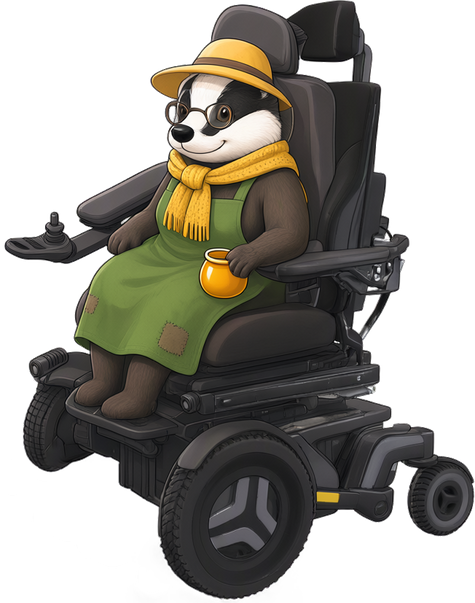
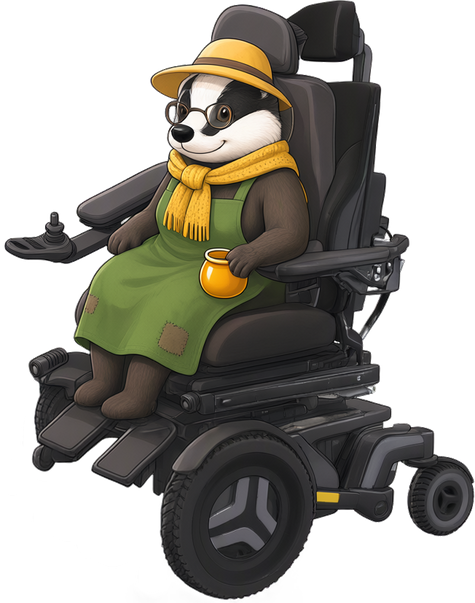
Матильда: подножки подняты под её короткие ноги (вместо портрета без подножек)

diff --git a/AGENTS.md b/AGENTS.md
@@ -308,7 +308,9 @@ python i18n_work/build_lang.py       # перевод полон
   колёсами. Вторая подножка убрана у Моры, Матильды, Сайры, Лешего: `art_tests/portrait_fix.py <ключ> [seeds]` —
   Qwen 2.1 edit по готовому портрету (FIX — что убрать и зона), `portrait_fix.py <ключ>=<seed>` — в assets идёт только
   изменившийся участок внутри зоны (лицо и поза не трогаются). Выбраны seed 22. У Агаты две подножки — левая и правая
-  (так у ручной коляски), не трогали. (assets/client_sorceress|f5|whillc2|leshy.png, art_tests/portrait_fix.py)
+  (так у ручной коляски), не трогали. Матильда без подножек вышла плохо (владелец) → `badger_up` 22: подножки подняты
+  под её короткие ноги, ноги стоят на них; вариант «ноги вниз до подножек» — ноги неестественно длинные, отказ.
+  (assets/client_sorceress|f5|whillc2|leshy.png, art_tests/portrait_fix.py)
 
 - 2026-10-22 — Claude (Opus 5.5) — **портреты клиентов в новых колясках** (Мора, Зикс, Матильда, Голем, Сайра, Леший,
   Горыныч, Агата с внуком, Агата в Кабинете посадки): `art_tests/portrait_chair.py <chair> <yaw>` — рендер новой
